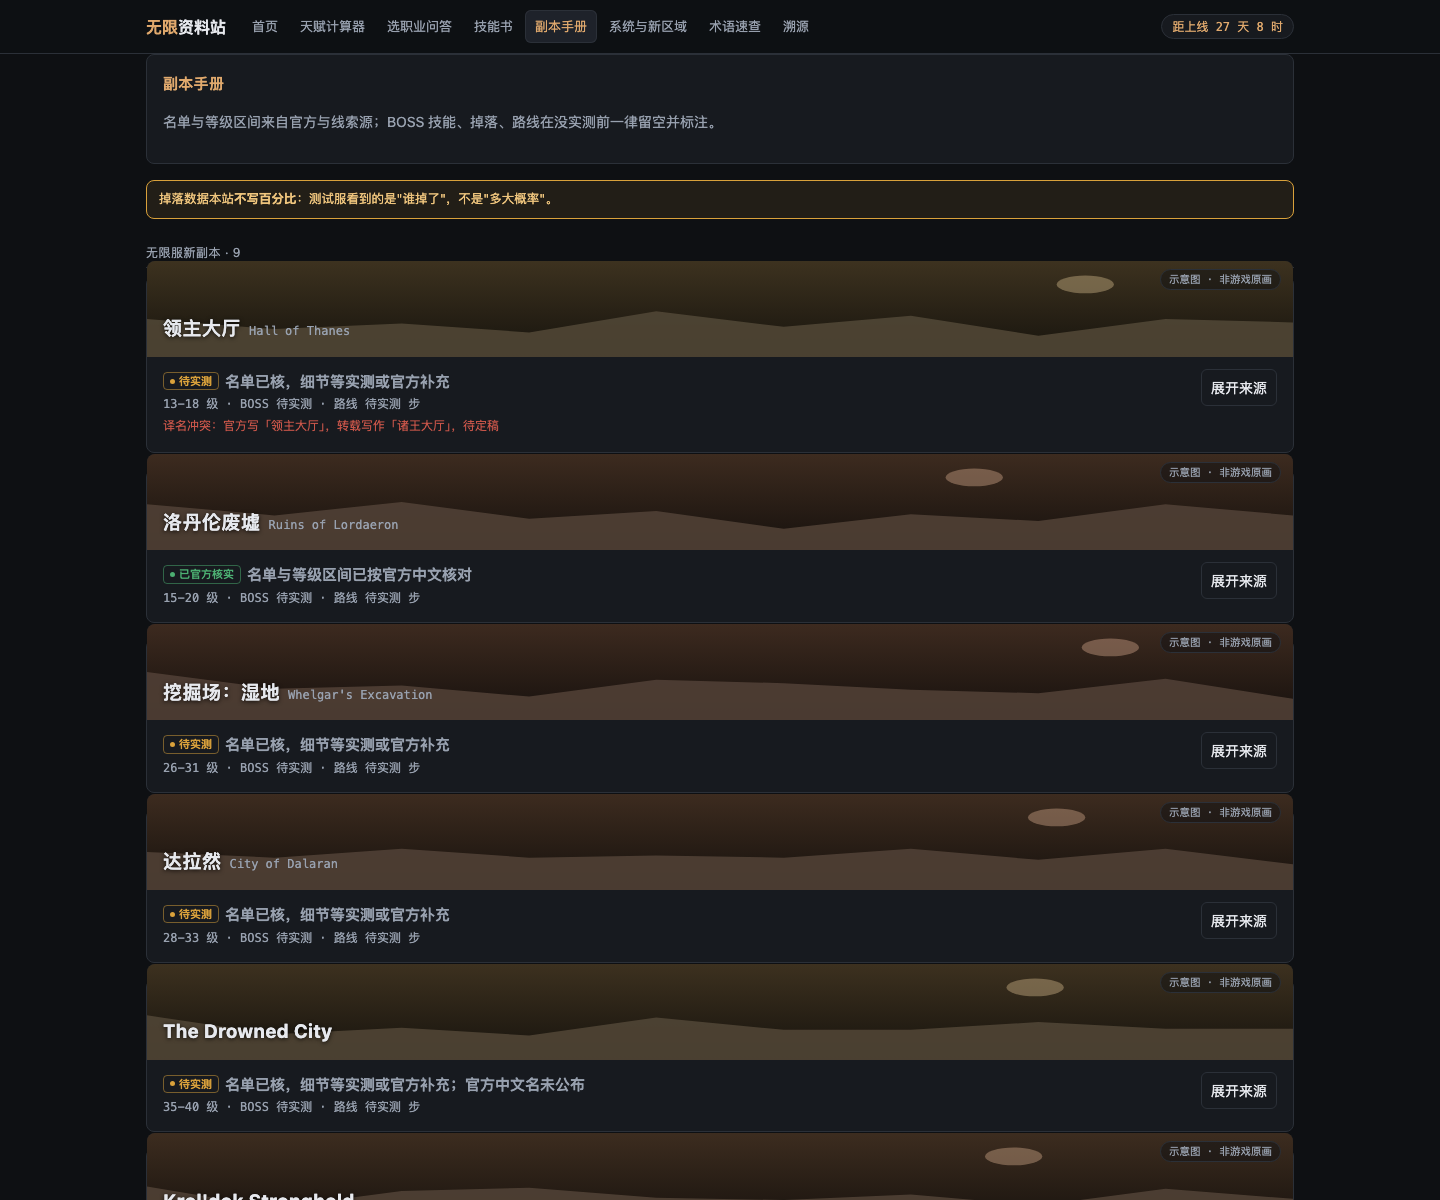
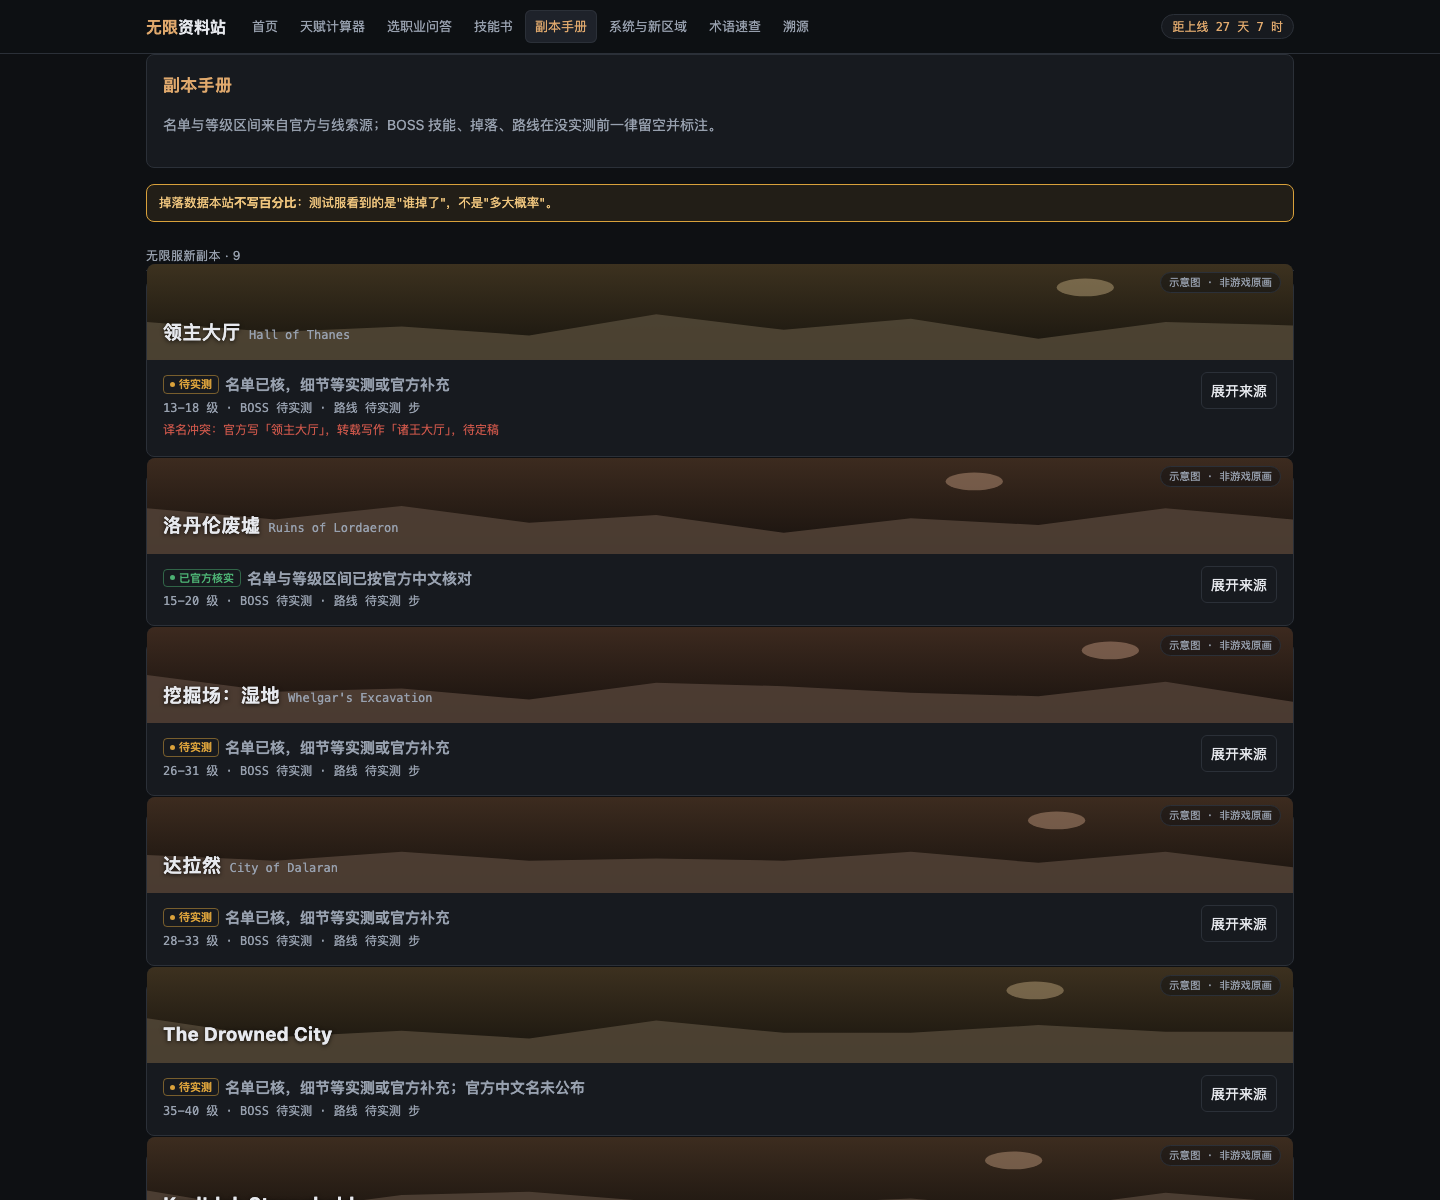
不装第三方 skill，只把它的设计判据变成我们自己的门禁
按下载量找了一圈市场上的同类 skill：开发类最高的是 shadcn-ui（5.2 万下载），
我们是无框架纯静态，方向相反；运营类最高是 community-marketing（8 万），
撞个人主体零 UGC 红线；数据采编类根本没有对口条目（最高 3.6 千还是代码安全审计）。
唯一互补的是 UI 类的设计走查方法，于是只取判据不引代码——它自带的三个脚本查的是
React/TSX，对我们的原生三件套没用。

取过来的判据落成可复查的断言，加进 site-check 第 6 节：每屏一个 H1、375px 下
点击目标 ≥44px、控件有可读名、图片有 alt、数字用 tabular-nums、层级不靠颜色。
量出来的问题当场修了：八页原来一个 H1 都没有；移动端技能书 215 个复制按钮、
速查页 215 个词条标签、系统页 20 个来源链接全部不足 44px；天赋页等级滑杆没有
可读名。技能书与副本页的"复制/清空"按钮从内联样式改成 .mini 类，避免盖掉媒体查询。

判据、实测基线和还欠的 140 处内联样式一起写进 UI.md 第七节，wow-ui 技能里加了
"改完界面必须重跑并更新基线数字"的条款。site-check 从 55 项涨到 111 项，全过。

diff --git a/wow-forever-web/src/js/app.js b/wow-forever-web/src/js/app.js
@@ -39,7 +39,7 @@
         var classes = r[0].classes, gl = r[1].items, dg = r[3];
         var cov = D.coverage(r[2], r[0], r[1]);
         var dn = r[2].newDungeons.length;
-        set('<div class="card"><h2>《魔兽世界：无限》中文资料</h2>' +
+        set('<div class="card"><h1 class="pt">《魔兽世界：无限》中文资料</h1>' +
           '<p class="dim">天赋、技能中英对照、副本与掉落。每条数据都标了来源与核对状态——' +
           '没核实的地方直接写「待实测」，不编造。</p>' + D.covBar(cov) +
           '<div class="stats" style="margin-top:12px">' +
@@ -50,7 +50,7 @@
           '<div class="banner">本站基于测试服资料整理，正式服 2026-11-05 上线后需整体重核。</div>' +
           '<div class="card"><h2>选职业</h2>' +
           '<p class="dim" style="margin-bottom:var(--s3)">第一次接触无限服、不知道选哪个？' +
-          '<a href="chooser.html">做个 7 题玩法问答 →</a>（本站整理，不是强度排行）</p>' +
+          '<a class="cta" href="chooser.html">做个 7 题玩法问答 →</a>（本站整理，不是强度排行）</p>' +
           '<div class="grid g9">' +
           classes.map(function (c) {
             var n = gl.filter(function (g) { return g.classId === c.id; }).length;
@@ -126,7 +126,7 @@
     }
     var body = trees.length ? renderTrees(trees, r) : renderPool(pool);
     set(head + banner + '<div class="tpanel">' +
-      '<div class="thead"><span class="title">' + D.esc(c.cn || '') + ' 天赋</span>' +
+      '<div class="thead"><h1 class="title">' + D.esc(c.cn || '') + ' 天赋</h1>' +
       '<span class="pts">剩余 <b>' + Math.max(0, r.totalPoints - E.spent(tstate.state, trees)) + '</b>/' + r.totalPoints + '</span>' +
       '<input type="search" id="tq" placeholder="搜天赋名" style="max-width:180px">' +
       '<span class="dim mono" id="sel"></span></div>' +
@@ -134,7 +134,7 @@
         return '<button data-tab="' + i + '" class="' + (i === tstate.active ? 'on' : '') + '">' + D.esc(t.nameCn) + '</button>';
       }).join('') + '</div>' + body +
       '<div class="tfoot"><label class="dim">等级 <span class="mono" id="lvv">60</span></label>' +
-      '<input type="range" min="10" max="60" value="60" id="lv">' +
+      '<input type="range" min="10" max="60" value="60" id="lv" aria-label="按角色等级筛选可用天赋">' +
       '<button id="mode" class="ghost">' + (tstate.mode === 'add' ? '当前：加点' : '当前：减点') + '</button>' +
       '<button id="copy" class="ghost">复制方案</button><button id="share" class="ghost">分享链接</button>' +
       '<button id="reset" class="ghost">重置</button>' +
@@ -361,7 +361,7 @@
         var cls = cstate.answers[q.id] ? (i < cstate.step ? 'L0' : 'L1') : 'L3';
         return '<i class="' + cls + '" style="width:' + w + '" title="' + D.esc(q.q) + '"></i>';
       }).join('') + '</div></div>';
-    var head = '<div class="card"><h2>选职业问答</h2><p class="dim">' + D.esc(cstate.meta.note || '') + '</p></div>';
+    var head = '<div class="card"><h1 class="pt">选职业问答</h1><p class="dim">' + D.esc(cstate.meta.note || '') + '</p></div>';
     var body;
     if (done) {
       var s = chooserScores(), ids = Object.keys(s.score);
@@ -421,14 +421,14 @@
             var c = cls.filter(function (y) { return y.id === x.classId; })[0];
             return '<tr><td>' + D.hl(x.cn, f.q) + '</td><td class="en">' + (x.en ? D.hl(x.en, f.q) : '<span class="dim">待补</span>') + '</td>' +
               '<td>' + (KIND[x.kind] || x.kind) + '</td><td>' + (c ? D.esc(c.cn) : '—') + '</td><td>' + D.pill(x.level) + '</td>' +
-              '<td><button class="ghost" data-copy="' + D.esc(x.cn + (x.en ? ' / ' + x.en : '')) + '" style="font-size:11px;padding:1px 6px">复制</button></td></tr>';
+              '<td><button class="ghost" data-copy="' + D.esc(x.cn + (x.en ? ' / ' + x.en : '')) + '" >复制</button></td></tr>';
           }).join('') + '</tbody></table>' : '<div class="empty">没有匹配条目，试试放宽筛选。</div>';
         el('cnt').textContent = list.length + ' / ' + items.length + ' 条';
         Array.prototype.forEach.call(document.querySelectorAll('[data-copy]'), function (b) {
           b.onclick = function () { D.copy(b.dataset.copy); };
         });
       }
-      set('<div class="card"><h2>技能书</h2><p class="dim">英文原名与专精归属是待补项，缺的地方直接写「待补」，不做机翻。</p>' +
+      set('<div class="card"><h1 class="pt">技能书</h1><p class="dim">英文原名与专精归属是待补项，缺的地方直接写「待补」，不做机翻。</p>' +
         '<div class="field"><input type="search" id="q" placeholder="搜中文或英文">' +
         '<select id="c"><option value="">全部职业</option>' + cls.map(function (x) { return '<option value="' + x.id + '">' + D.esc(x.cn) + '</option>'; }).join('') + '</select>' +
         '<select id="k"><option value="">全部类型</option>' + Object.keys(KIND).filter(function (k) {
@@ -464,7 +464,7 @@
   function dungeons() {
     D.load('data/dungeons.json').then(function (d) {
       var groups = [['newDungeons', '无限服新副本'], ['classicDungeons', '经典副本（在无限服）'], ['raids', '团队副本']];
-      set('<div class="card"><h2>副本手册</h2><p class="dim">名单与等级区间来自官方与线索源；BOSS 技能、掉落、路线在没实测前一律留空并标注。</p></div>' +
+      set('<div class="card"><h1 class="pt">副本手册</h1><p class="dim">名单与等级区间来自官方与线索源；BOSS 技能、掉落、路线在没实测前一律留空并标注。</p></div>' +
         '<div class="banner">掉落数据本站<b>不写百分比</b>：测试服看到的是"谁掉了"，不是"多大概率"。</div>' +
         groups.map(function (g) {
           return '<div class="grp">' + g[1] + ' · ' + (d[g[0]] || []).length + '</div>' +
@@ -511,7 +511,7 @@
           t.onclick = function () { D.copy(t.dataset.c); };
         });
       }
-      set('<div class="card"><h2>中英术语速查</h2><p class="dim">点词条即复制。当前只有猎人与德鲁伊的官方中文名，其余职业待采。</p>' +
+      set('<div class="card"><h1 class="pt">中英术语速查</h1><p class="dim">点词条即复制。当前只有猎人与德鲁伊的官方中文名，其余职业待采。</p>' +
         '<div class="field"><input type="search" id="q" placeholder="输入中文或英文"><span class="dim mono" id="cnt"></span></div>' +
         '<div class="pool" id="pool"></div></div>');
       el('q').oninput = function (e) { draw(e.target.value.trim()); };
@@ -537,7 +537,8 @@
         ['github.com/cmangos/classic-db', '1.12 国服中文 locale（GPL-3.0）', '只取译名与结构'],
         ['search.bilibili.com', '测试服实测视频', 'ASR + 关键帧识别后人工确认']];
         var ti = r[3].talentImport;
-        set('<div class="card"><h2>数据覆盖率</h2>' + D.covBar(cov) +
+        set('<div class="card"><h1 class="pt">溯源与覆盖率</h1><p class="dim">每条数据从哪来、什么时候核的、哪些刻意没拿，全部摊在这里。</p></div>' +
+          '<div class="card"><h2>数据覆盖率</h2>' + D.covBar(cov) +
           '<div class="stats" style="margin-top:12px">' + Object.keys(names).map(function (k) {
             return '<div class="stat"><b>' + cov[k] + '</b>' + names[k] + '</div>';
           }).join('') + '</div>' +
@@ -585,7 +586,8 @@
   function systems() {
     D.load('data/systems.json').then(function (s) {
       var q = document.body.getAttribute('data-page');
-      set(s.groups.map(function (g) {
+      set('<div class="card"><h1 class="pt">系统与新区域</h1><p class="dim">规则、区域、种族与装备名的官方中文口径，逐条带来源。</p></div>' +
+        s.groups.map(function (g) {
         return '<div class="grp">' + D.esc(g.label) + ' · ' + g.items.length + '</div>' +
           g.items.map(function (x) {
             return '<div class="card"><div class="hd" style="display:flex;gap:10px;align-items:baseline;flex-wrap:wrap">' +

diff --git a/wow-forever-web/src/css/app.css b/wow-forever-web/src/css/app.css
@@ -63,6 +63,7 @@ input:focus,select:focus,button:focus{outline:none;border-color:var(--gold)}
 button{cursor:pointer}
 button:hover{border-color:var(--gold);color:#fff}
 button.ghost{background:transparent}
+button.ghost.mini{font-size:11px;padding:1px 6px}
 button:disabled{opacity:.45;cursor:not-allowed}
 .field{display:flex;gap:var(--s2);flex-wrap:wrap;align-items:center;margin-bottom:var(--s3)}
 input[type=search]{flex:1;min-width:180px}
@@ -235,3 +236,23 @@ ul.list{margin:var(--s2) 0 0 18px;color:var(--txt-dim);font-size:12.5px}
 /* ---------- 语义强调文本（替代散落在 JS 里的硬编码色值） ---------- */
 .alert{color:var(--txt-alert)}
 .caution{color:var(--txt-caution);font-size:12.5px}
+
+
+/* ---------- 设计量化基线（吸收自通用走查规则，见 docs/UI.md 第七节） ---------- */
+.card h1.pt{margin-bottom:var(--s3);color:var(--gold);font-size:17px}
+.thead h1.title{font-size:17px}
+.mono,.stat b,.rank,.cov-num{font-variant-numeric:tabular-nums}
+
+/* 触屏点击目标：手机上"能点到"比"省地方"优先 */
+@media (max-width:600px){
+  .term{display:inline-flex;align-items:center;min-height:44px;padding:12px 14px;font-size:14px;line-height:1.2}
+  button.ghost, button.ghost.mini{min-height:44px;min-width:44px;padding:10px 14px;font-size:13px}
+  .top nav a{min-height:44px;display:inline-flex;align-items:center}
+  .src a{min-height:44px;display:flex;align-items:center;flex-wrap:wrap}
+  .field input[type=search], .thead input[type=search]{min-height:44px}
+  .qopt{min-height:48px}
+  .ttabs button{min-height:44px}
+  .tfoot input[type=range]{min-height:44px}
+  .card > a{display:inline-flex;align-items:center;min-height:44px}
+  a.cta{display:inline-flex;align-items:center;min-height:44px;padding-right:6px}
+}

diff --git a/wow-forever-web/tools/site-check.py b/wow-forever-web/tools/site-check.py
@@ -350,8 +350,52 @@ def test_chooser(browser, base):
     ctx.close()
 
 
+def test_design_baseline(browser, base):
+    """吸收自通用设计走查规则的量化底线：每屏一个 H1、触屏点击目标 ≥44px、
+       控件有可读名、图片有 alt、数字用等宽对齐。见 docs/UI.md 第七节。"""
+    print("\n[6] 设计量化基线")
+    for mob, vp in [("桌面", {"width": 1440, "height": 1000}),
+                    ("移动 375", {"width": 375, "height": 812, "is_mobile": True, "has_touch": True})]:
+        ctx = browser.new_context(viewport=vp, is_mobile=("移动" in mob), has_touch=("移动" in mob))
+        for name in PAGES:
+            page = ctx.new_page()
+            page.goto("%s/%s.html" % (base, name), wait_until="networkidle")
+            page.wait_for_timeout(1100)
+            r = page.evaluate("""() => {
+              const els = [...document.querySelectorAll('button, a, input, .node, .qopt, .term, .cls')];
+              const small = els.filter(e => { const b = e.getBoundingClientRect();
+                  return b.width > 0 && b.height > 0 && Math.min(b.width, b.height) < 44; });
+              return {
+                h1: document.querySelectorAll('h1').length,
+                small: small.map(e => e.tagName + '.' + String(e.className).split(' ')[0]),
+                unnamed: els.filter(e => !e.textContent.trim() && !e.getAttribute('aria-label') && !e.placeholder).length,
+                noAlt: [...document.querySelectorAll('img')].filter(i => i.getAttribute('alt') === null).length };
+            }""")
+            kinds = {}
+            for k in r["small"]:
+                kinds[k] = kinds.get(k, 0) + 1
+            top = sorted(kinds.items(), key=lambda x: -x[1])[:2]
+            check("%s H1 唯一 %s" % (mob, name), r["h1"] == 1, "H1 %d 个" % r["h1"])
+            if "移动" in mob:
+                check("移动端点击目标 ≥44px %s" % name, not r["small"],
+                      "%d 个偏小 %s" % (len(r["small"]), top))
+            check("控件都有可读名 %s" % name, r["unnamed"] == 0, "%d 个缺名" % r["unnamed"])
+            check("图片都有 alt %s" % name, r["noAlt"] == 0, "%d 张缺 alt" % r["noAlt"])
+            page.close()
+        ctx.close()
+    ctx = browser.new_context(viewport={"width": 375, "height": 812}, is_mobile=True, has_touch=True)
+    page = ctx.new_page()
+    page.goto(base + "/glossary.html", wait_until="networkidle")
+    page.wait_for_timeout(1200)
+    page.screenshot(path=os.path.join(SHOT_DIR, "glossary-mobile-375.png"))
+    page.goto(base + "/talent.html?c=hunter", wait_until="networkidle")
+    page.wait_for_timeout(1500)
+    page.screenshot(path=os.path.join(SHOT_DIR, "talent-mobile-tabs.png"))
+    ctx.close()
+
+
 def test_mobile(browser, base):
-    print("\n[5] 375px 移动端")
+    print("\n[7] 375px 移动端")
     ctx = browser.new_context(viewport={"width": 375, "height": 812}, is_mobile=True, has_touch=True)
     page = ctx.new_page()
     errors = []
@@ -388,6 +432,7 @@ def main():
             test_talent(browser, base)
             test_dungeon_banner(browser, base)
             test_chooser(browser, base)
+            test_design_baseline(browser, base)
             test_mobile(browser, base)
             browser.close()
     finally:

diff --git a/wow-forever-web/docs/UI.md b/wow-forever-web/docs/UI.md
@@ -211,3 +211,32 @@ python3 tools/site-check.py                 # 界面回归自检，截图落 doc
 - **仍然缺**：游戏内真实层级与列位、英文原名、完整前置链（470 个节点只有 66 条带前置）、以及圣骑士/萨满/法师/术士/潜行者五职业的官方中文稿。
 
 因此天赋页在层级未核实前用**列表模式**渲染（按系分组、显示上限与前置），不画成看起来权威的天赋树；等客户端或实测数据到位后再切回网格布局。
+---
+
+## 七、设计走查清单（量化，可复查）
+
+方法吸收自通用设计走查规则（ClawHub 上的 `design-review`，只取判据不引它的代码——那三个脚本查的是 React/TSX，我们是原生三件套）。**每一条都有对应断言在 `tools/site-check.py` 第 6 节，跑不过就不算做完。**
+
+### 7.1 硬性判据
+
+| 判据 | 标准 | 为什么 |
+| --- | --- | --- |
+| 每屏一个 H1 | `h1` 数量必须等于 1 | 屏幕阅读器靠它跳读；两个标题抢焦点等于没有标题 |
+| 触屏点击目标 | 375px 下所有可点元素最小边 ≥ 44px | 手机上"能点到"优先于"省地方"；内边距算命中区 |
+| 控件可读名 | 不允许有既无文字又无 `aria-label` 的可点元素 | 图标控件没名字，读屏用户只能瞎点 |
+| 图片有 alt | 装饰图 `alt=""`，信息图必须有文字替代 | 天赋图标是装饰（旁边有中文名），所以统一 `alt=""` |
+| 数字对齐 | 点数、覆盖率、区间用等宽 + `font-variant-numeric: tabular-nums` | 数字不对齐时，表格读数会看串行 |
+| 层级靠排版不靠颜色 | 用字重与字号拉开层级，颜色只标状态 | 颜色单独承载信息，色弱用户和黑白打印都会丢信息 |
+| 间距表达分组 | 先加空白再考虑边框；嵌套卡片多半是分组失败 | "tight inside, loose outside" |
+
+### 7.2 2026-10-08 实测基线
+
+八页 × 桌面/移动两种视口全过：每页 H1 = 1；移动端小于 44px 的点击目标 **0 个**（修之前 skills 页 215 个、速查页 215 个、系统页 20 个）；无可读名控件 **0 个**（修前天赋页等级滑杆 1 个）；缺 alt 图片 **0 个**。
+
+本轮为此改的东西：`.term` 在移动端改成 `inline-flex` + `min-height:44px`；`.ghost`/`.ghost.mini` 移动端 44×44；导航链接、系 tab、来源链接、卡片主链接、搜索框、等级滑杆各自补了最小命中区；技能书与副本页的"复制/清空"按钮从内联样式改成 `.mini` 类。
+
+### 7.3 已知欠账（下次改，别当已解决）
+
+- **内联样式仍有 140 处**（天赋页 36、系统页 38、首页 23、副本页 22、溯源页 12…）。它们会盖过媒体查询，是这次移动端适配里最费劲的一块。规则：新代码不许写 `style=`，改到相关组件时顺手搬进 CSS 类。
+- 间距节奏没有全面按 `--s1…--s6` 走，个别地方还是随手值；`site-check` 目前不查这条，靠人眼。
+- 天赋格 `.node` 在 375px 下是 44 以上，但格子密集时相邻间隔偏小（规范要求相邻点击目标之间 ≥8px），需要实测手感后再定。
